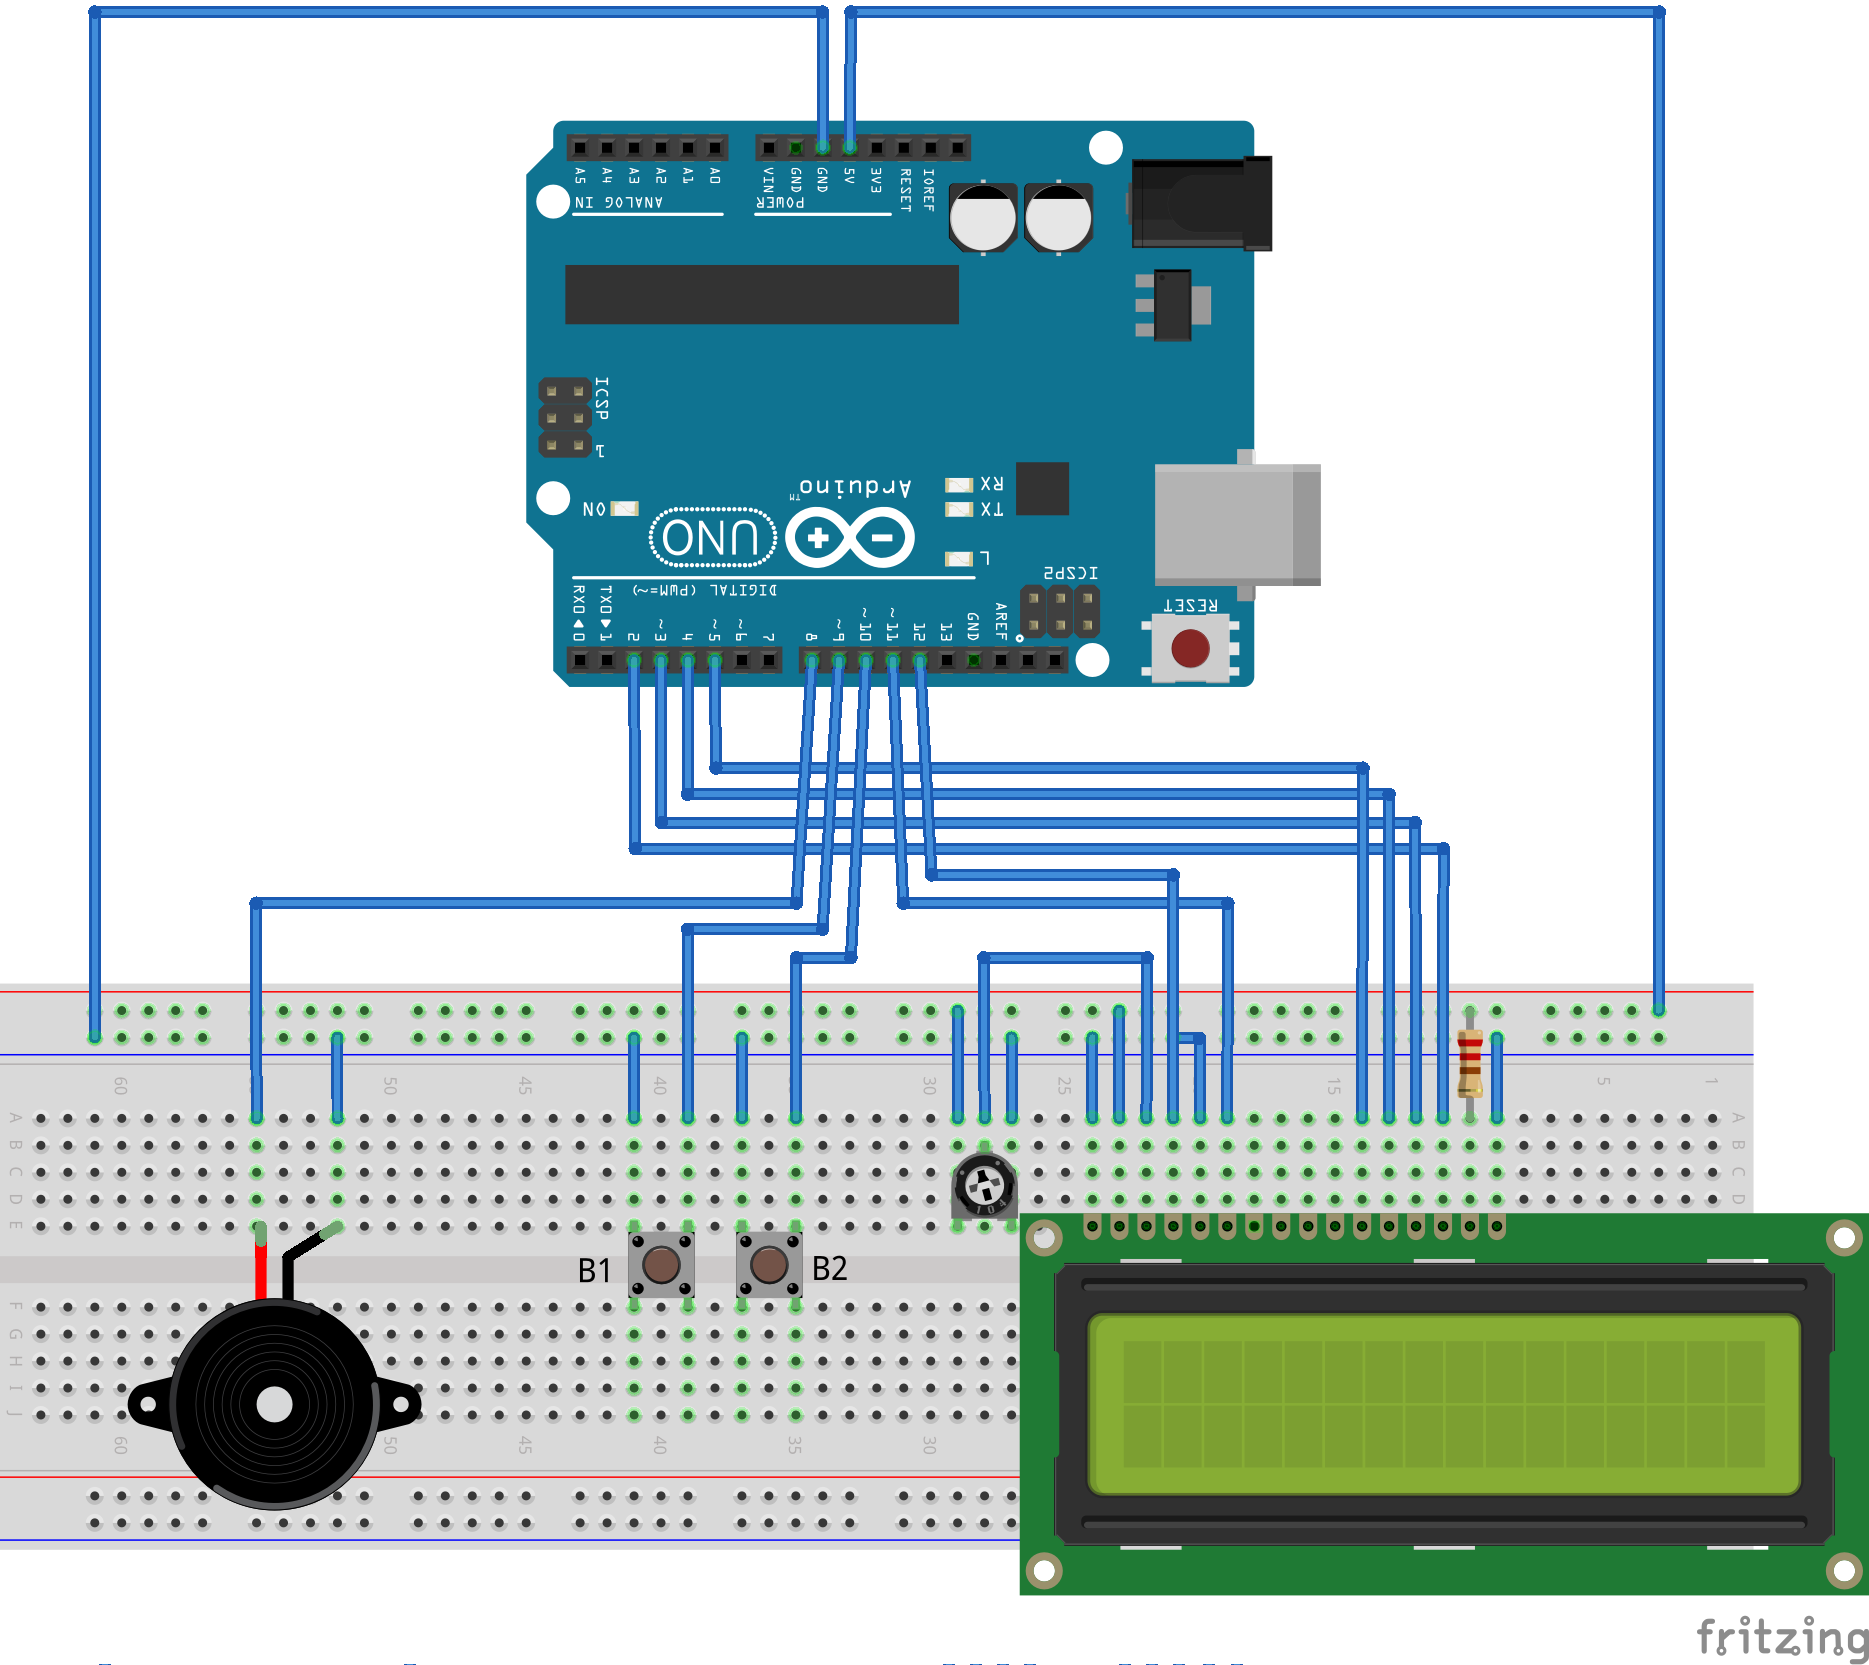
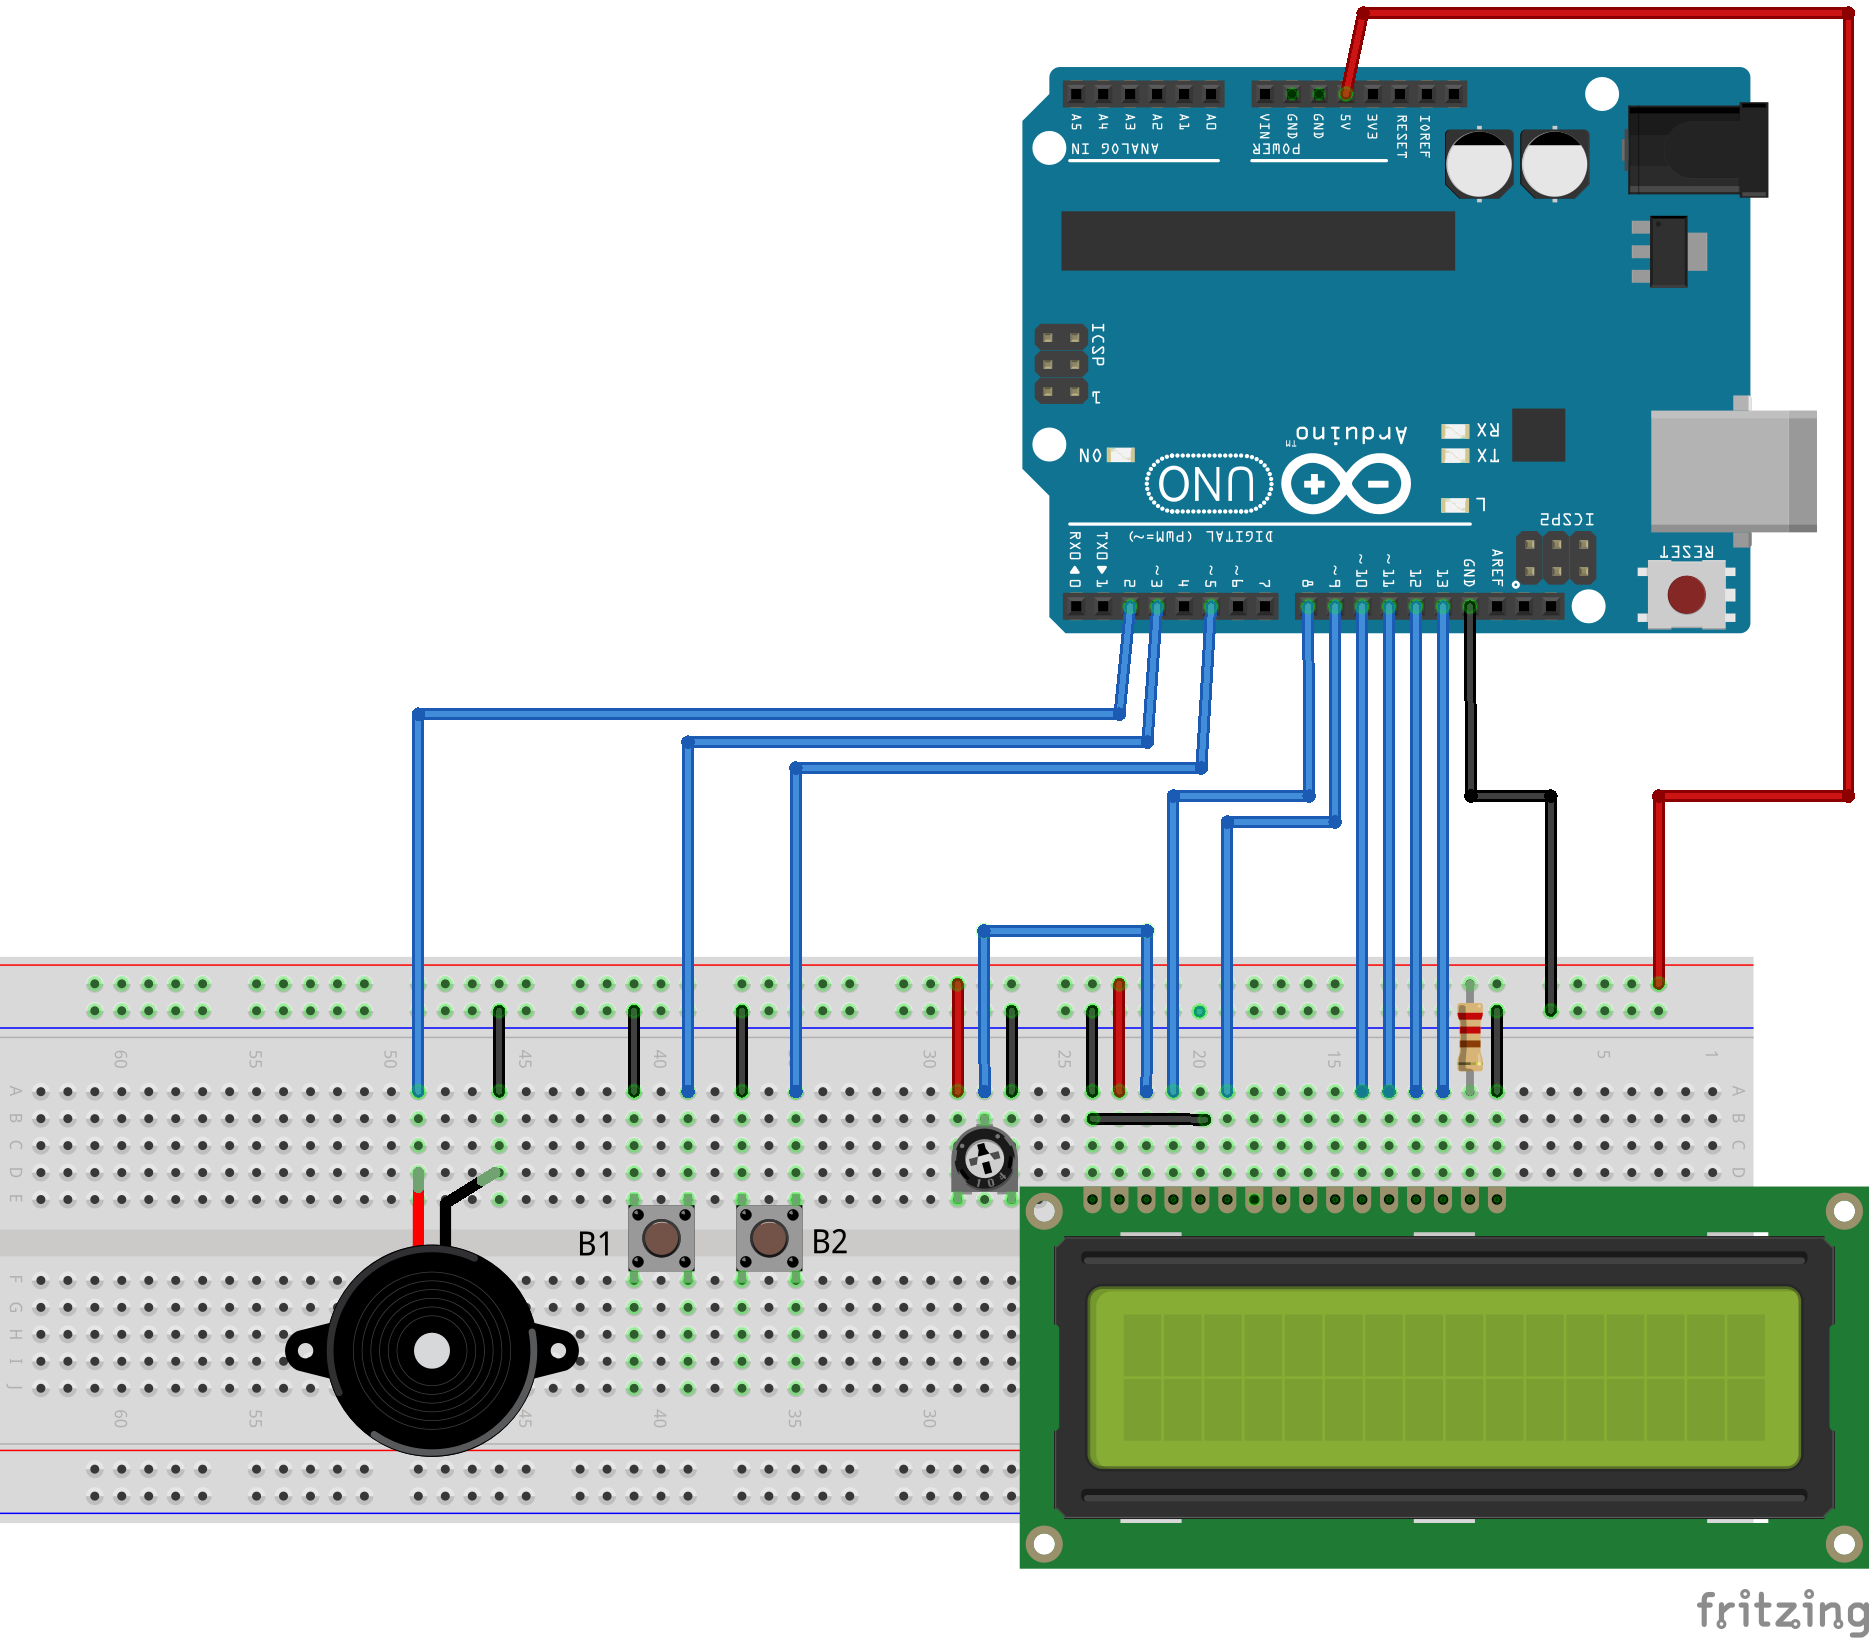
changed wiring to easier to connect

diff --git a/src/Const.hpp b/src/Const.hpp
@@ -29,17 +29,17 @@ namespace MO
 {
     namespace Const
     {
-        const uint8_t PIN_B1                = 9;  // button 1
-        const uint8_t PIN_B2                = 10; // button 2
-        const uint8_t PIN_BEEPER            = 8;  // beeper
+        const uint8_t PIN_BEEPER            = 2;  // beeper
+        const uint8_t PIN_B1                = 3;  // button 1
+        const uint8_t PIN_B2                = 4;  // button 2
 
         // display
-        const uint8_t PIN_RS                = 12;
-        const uint8_t PIN_ENABLE            = 11;
-        const uint8_t PIN_D0                = 5;
-        const uint8_t PIN_D1                = 4;
-        const uint8_t PIN_D2                = 3;
-        const uint8_t PIN_D3                = 2;
+        const uint8_t PIN_RS                = 8;
+        const uint8_t PIN_ENABLE            = 9;
+        const uint8_t PIN_D4                = 10;
+        const uint8_t PIN_D5                = 11;
+        const uint8_t PIN_D6                = 12;
+        const uint8_t PIN_D7                = 13;
 
         // pomodoro constants
         const uint8_t POM_WORK_MIN          = 25;

diff --git a/src/Display.cpp b/src/Display.cpp
@@ -28,7 +28,7 @@ namespace MO
 {
     Display::Display():
         the_lcd(Const::PIN_RS, Const::PIN_ENABLE,
-                Const::PIN_D0, Const::PIN_D1, Const::PIN_D2, Const::PIN_D3)
+                Const::PIN_D4, Const::PIN_D5, Const::PIN_D6, Const::PIN_D7)
     {
         for (uint8_t i = 0; i < MAX_LINES; ++i)
             memset(the_old_line[i], 0, BUF_SIZE);
